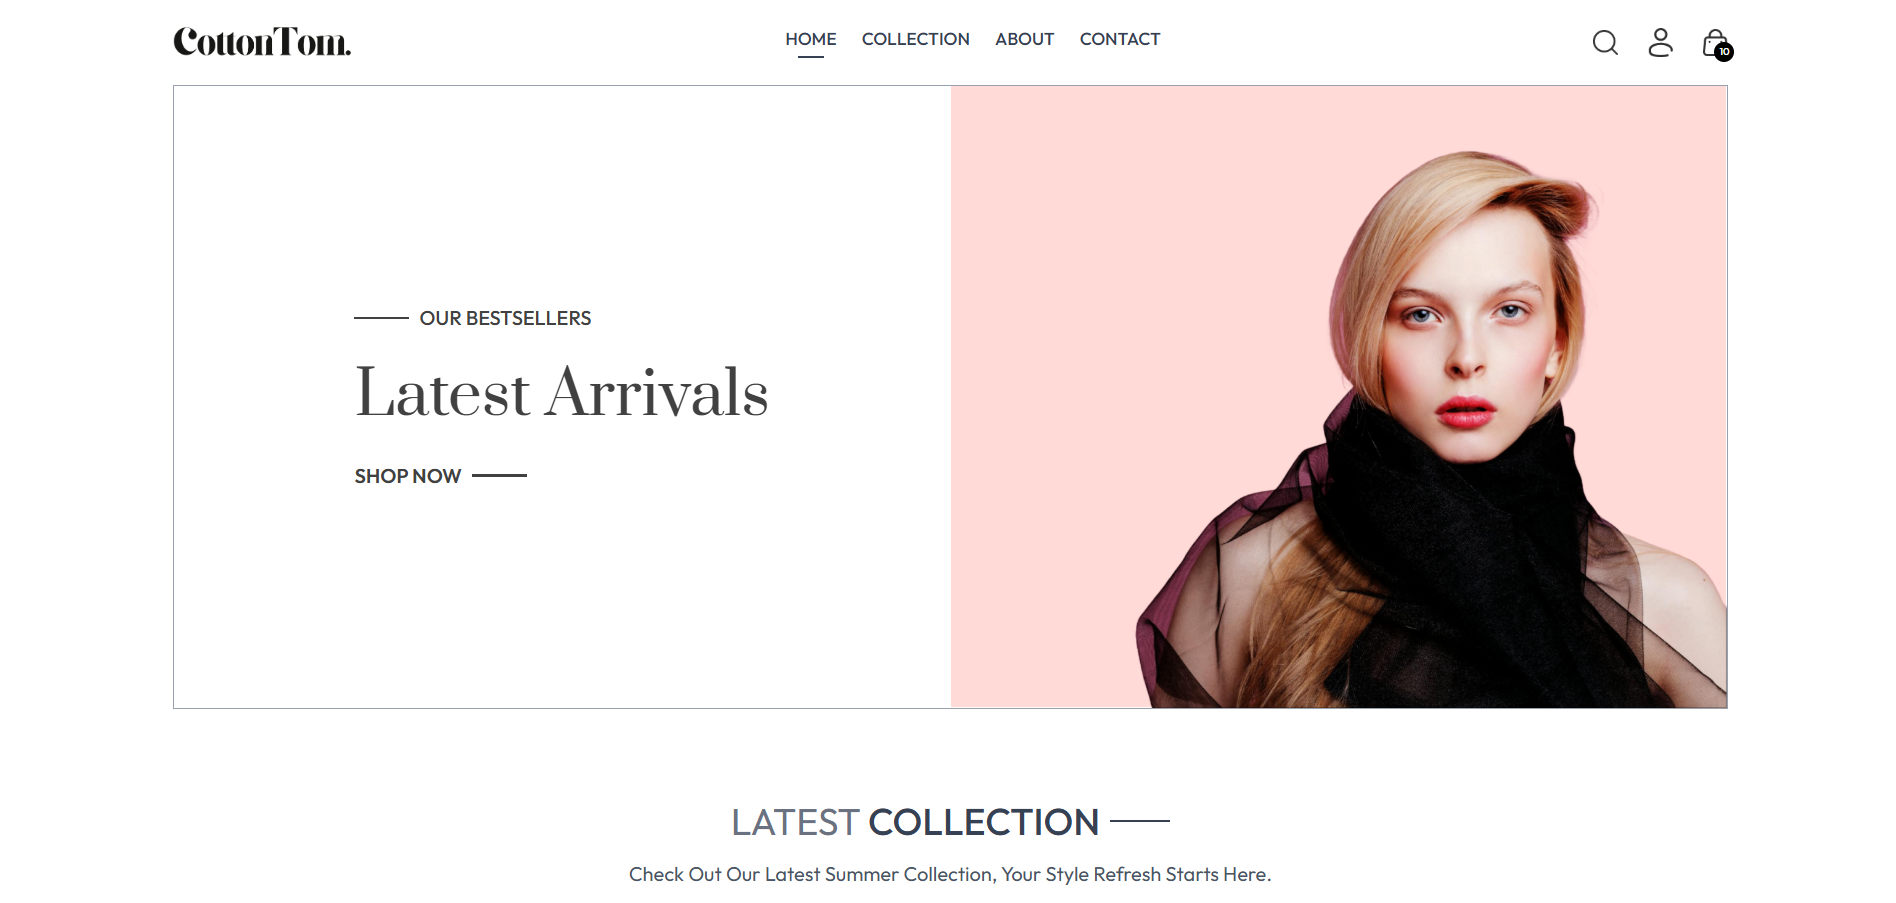
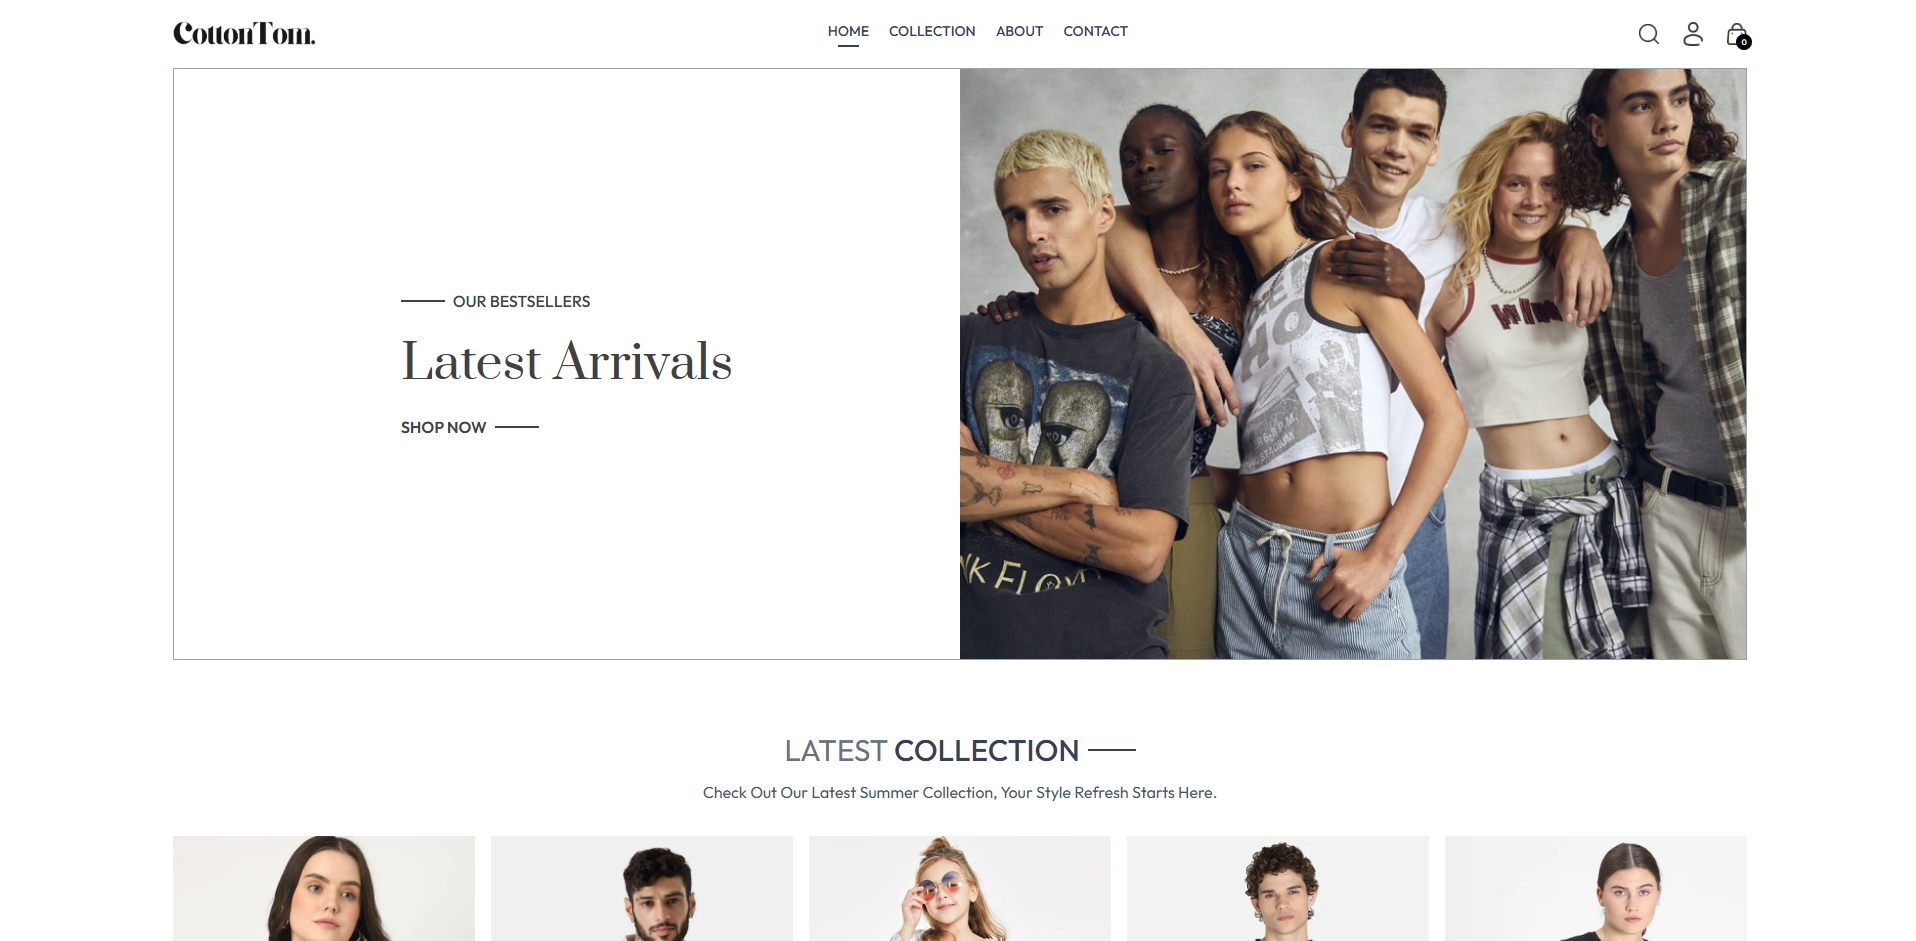
update new project

diff --git a/src/components/Projects.tsx b/src/components/Projects.tsx
@@ -3,16 +3,28 @@ import { FaGithub, FaExternalLinkAlt } from "react-icons/fa";
 
 const projects = [
   {
-    id: 1,
-    title: "Streaming Website",
+    id: 8,
+    title: "Fullstack Ecommerce Website",
     description:
-      "A streaming website with working streaming servers for movies viewing and trailer viewing. Features movies from different providers.",
-    image: "/Stream.png",
-    technologies: ["React", "TMDB", "Firebase"],
-    githubLink: "https://github.com/ThinhDang464/Thomflix",
-    liveLink: "https://www.youtube.com/watch?v=vcYHywIVwow",
-    webLink: "https://thomflix.netlify.app/",
+      "An Ecommerce website that has manageable admin dashboard and full payment capability through Razor API",
+    image: "/cotton.png",
+    technologies: ["MERN", "Stripe", "TailwindCSS", "Vercel"],
+    githubLink: "https://github.com/ThinhDang464/CottonTom",
+    liveLink: "",
+    webLink: "https://cotton-tom-fe.vercel.app/",
   },
+  {
+    id: 7,
+    title: "Studio Portfolio Website",
+    description:
+      "A website for a Vietnamese studio to showcase their graphic design and illustrations projects.",
+    image: "/ivy-stu.png",
+    technologies: ["React", "JavaScript", "TailwindCSS"],
+    githubLink: "https://github.com/ThinhDang464/ivy-stu",
+    liveLink: null,
+    webLink: "https://ivystudio.netlify.app/",
+  },
+
   {
     id: 2,
     title: "AI-Tool for Assessment Management",
@@ -69,26 +81,15 @@ const projects = [
     webLink: null,
   },
   {
-    id: 7,
-    title: "Studio Portfolio Website",
+    id: 1,
+    title: "Streaming Website",
     description:
-      "A website for a Vietnamese studio to showcase their graphic design and illustrations projects.",
-    image: "/ivy-stu.png",
-    technologies: ["React", "JavaScript", "TailwindCSS"],
-    githubLink: "https://github.com/ThinhDang464/ivy-stu",
-    liveLink: null,
-    webLink: "https://ivystudio.netlify.app/",
-  },
-  {
-    id: 8,
-    title: "Fullstack Ecommerce Website",
-    description:
-      "An Ecommerce website that has manageable admin dashboard and full payment capability through Razor API",
-    image: "/cotton.png",
-    technologies: ["React", "JavaScript", "TailwindCSS", "RazorAPI"],
-    githubLink: "https://github.com/ThinhDang464/CottonTom",
-    liveLink: null,
-    webLink: null,
+      "A streaming website with working streaming servers for movies viewing and trailer viewing. Features movies from different providers.",
+    image: "/Stream.png",
+    technologies: ["React", "TMDB", "Firebase"],
+    githubLink: "https://github.com/ThinhDang464/Thomflix",
+    liveLink: "https://www.youtube.com/watch?v=vcYHywIVwow",
+    webLink: "https://thomflix.netlify.app/",
   },
 ];
 
